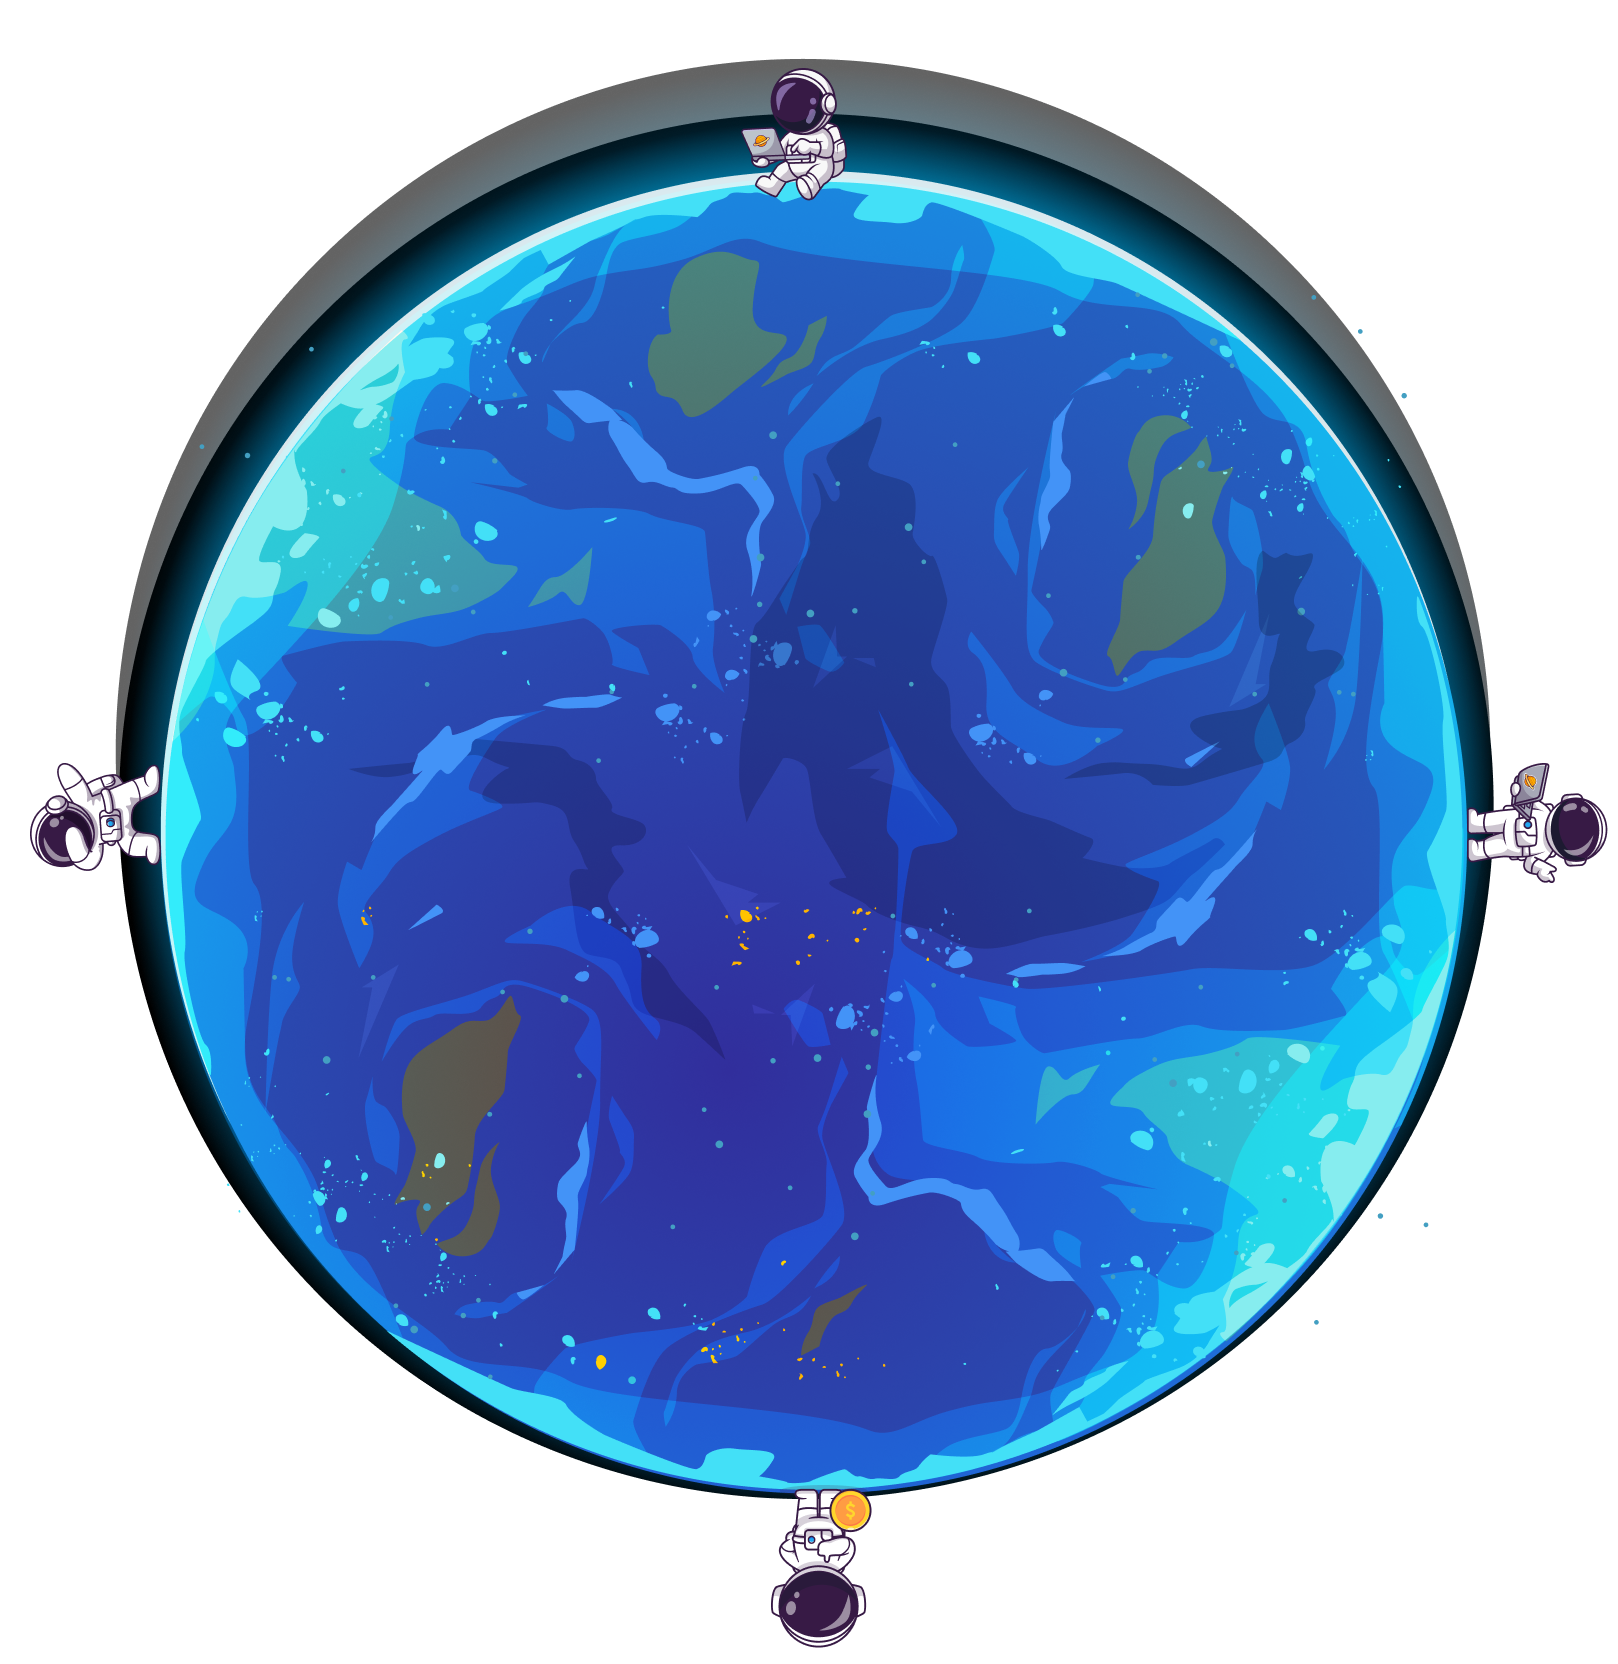
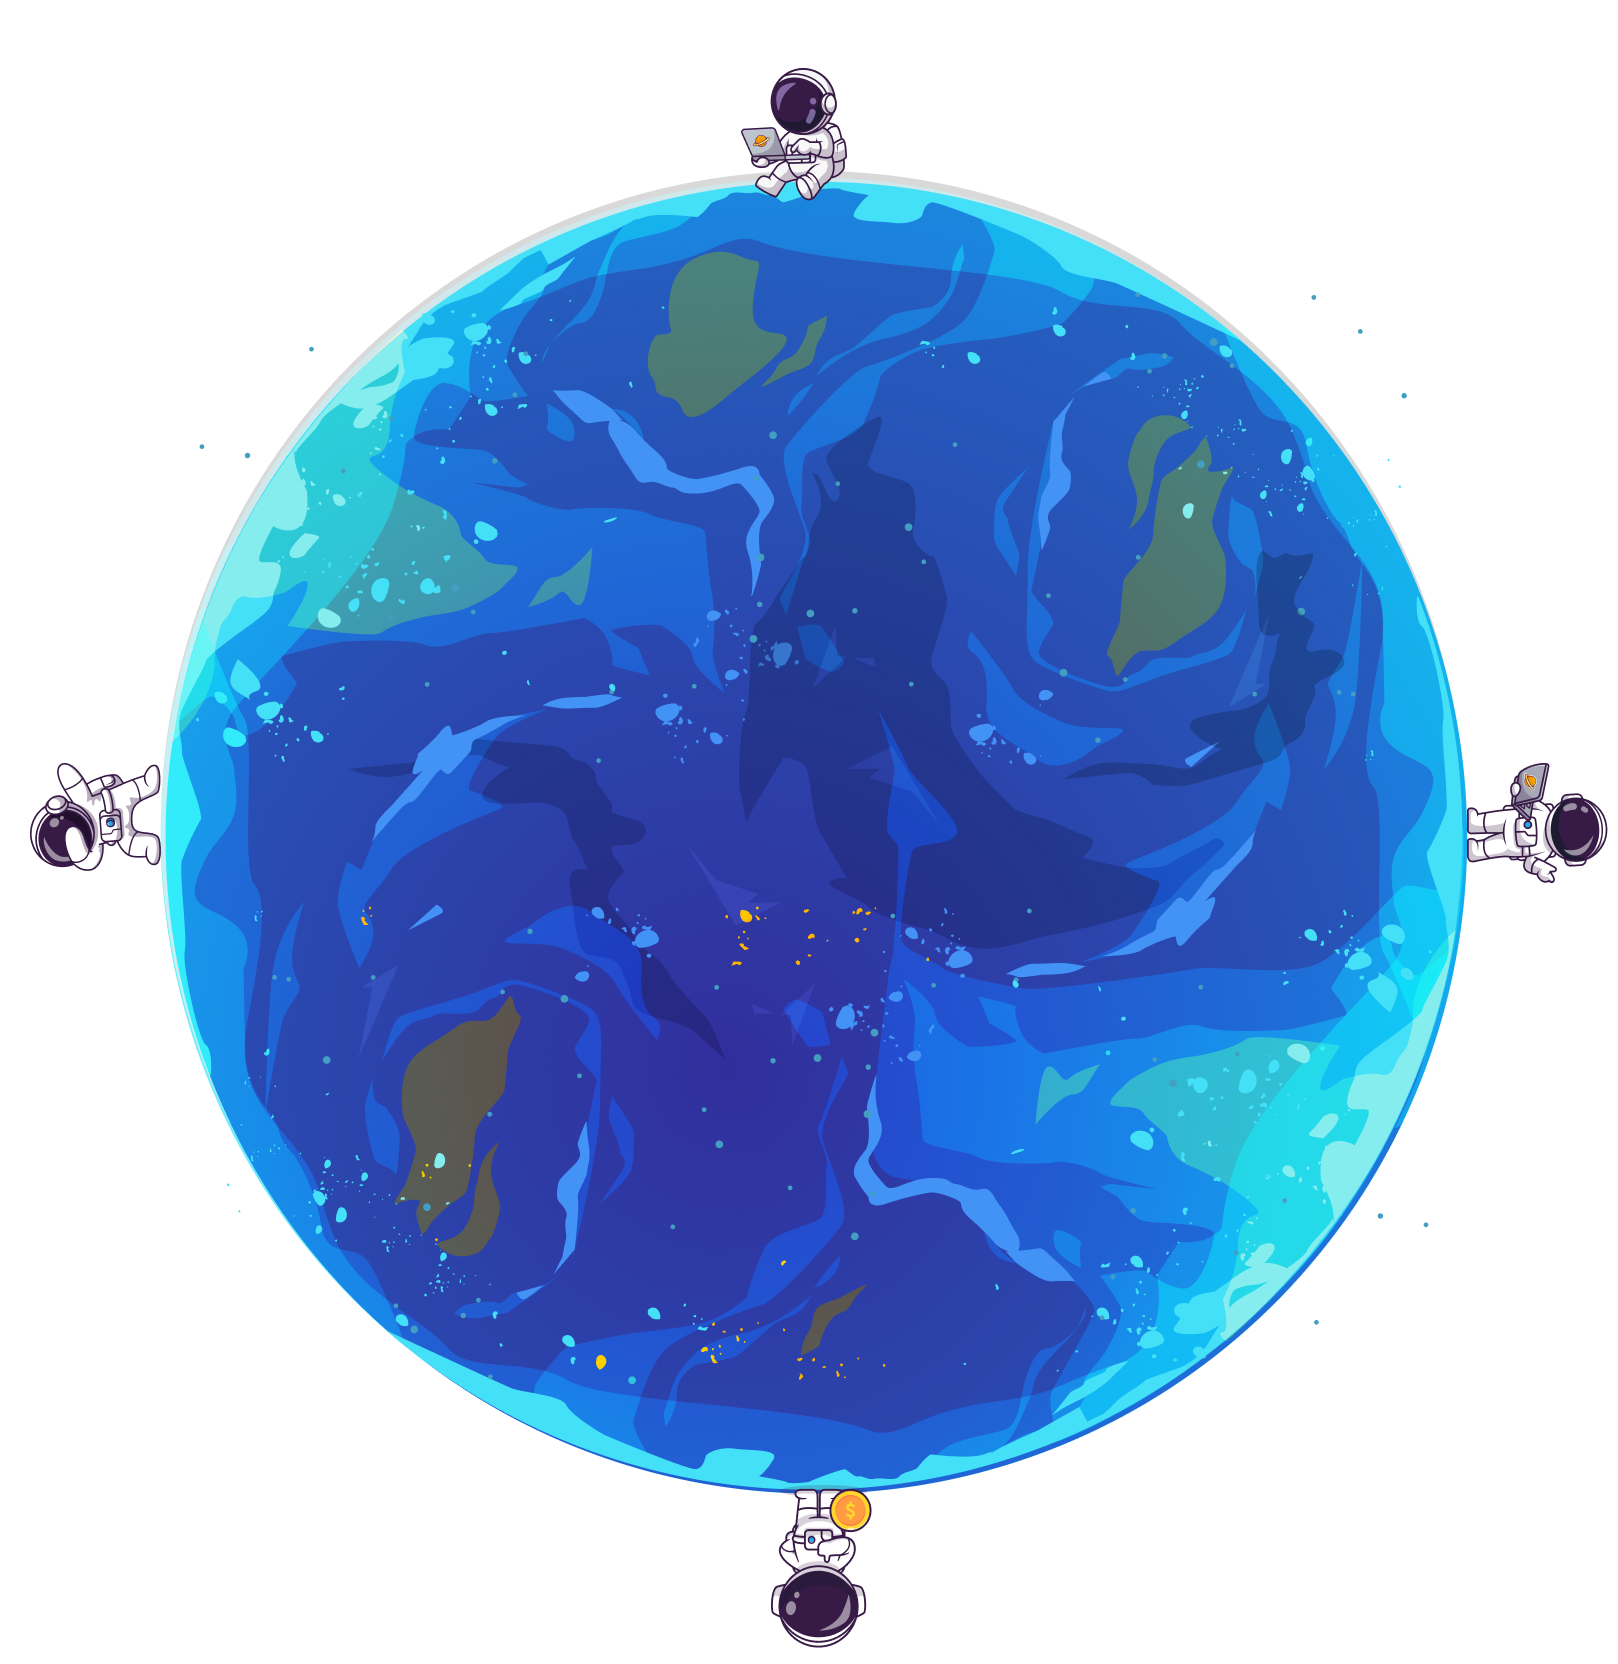
feat: replace static image with animated motion image for Earth in App component

diff --git a/src/App.tsx b/src/App.tsx
@@ -5,6 +5,7 @@ import ScrollIndicator from "./components/ScrollIndicator";
 import ContactButton from "./components/contact/ContactButton";
 import ClickToOpenButton from "./components/ClickToOpenButton";
 import earth from "./assets/img/earth.png";
+import { motion } from "motion/react";
 
 function App() {
   return (
@@ -14,10 +15,16 @@ function App() {
       <ScrollIndicator />
       <ContactButton />
       <ClickToOpenButton />
-      <img
-        className="absolute bottom-[-95%] left-[50%] -translate-x-[50%] z-30 pointer-events-none w-[80%]"
+      <motion.img
+        className="absolute bottom-[-93%] left-[50%] -translate-x-[50%] z-30 pointer-events-none w-[80%]"
         src={earth}
         alt="Earth"
+        animate={{ rotate: 360 }}
+        transition={{
+          duration: 100,
+          repeat: Infinity,
+          ease: "linear",
+        }}
       />
     </div>
   );
